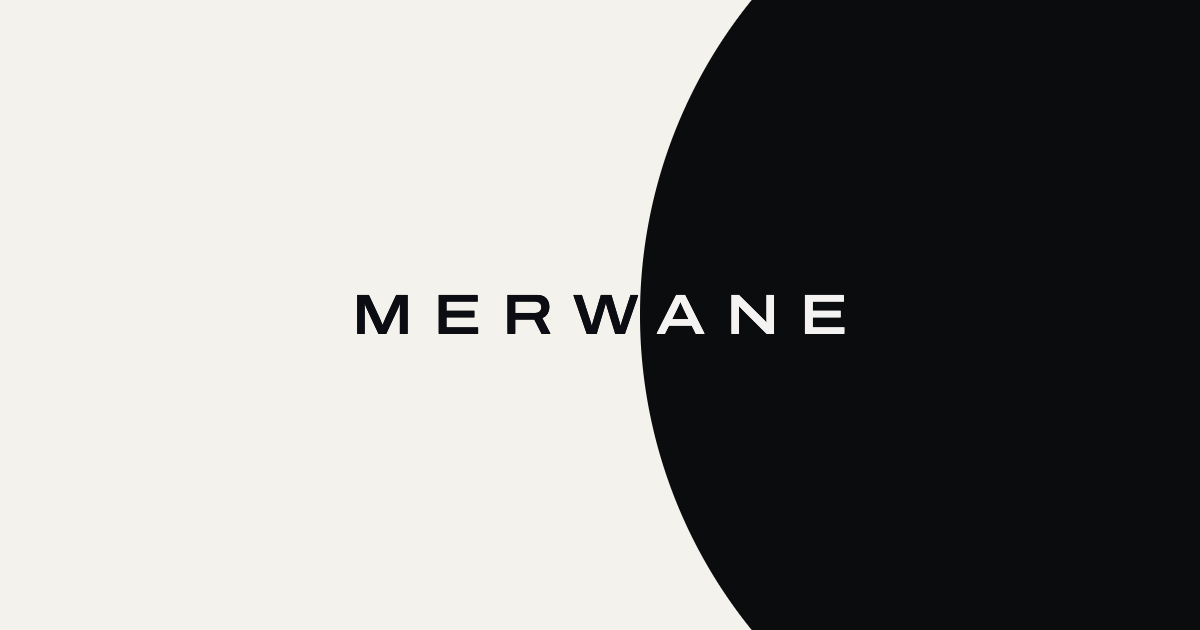
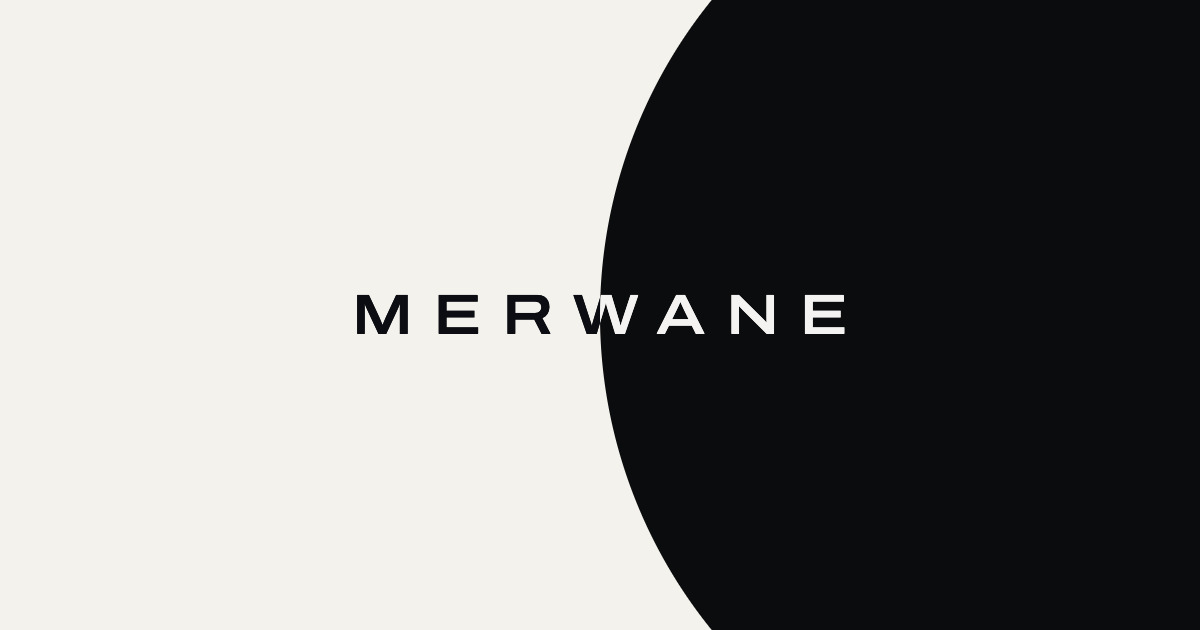
En-tête : le bord du disque passe au milieu du nom, comme sur la carte

Changed region(s): [[0.4933, 0.0, 0.6475, 1.0]]

diff --git a/index.html b/index.html
@@ -41,7 +41,7 @@ body::after { content: ""; position: fixed; inset: 0; z-index: 5; pointer-events
 .tete { --lueur: rgba(255, 222, 180, .2); --sillon: rgba(255, 255, 255, .04); --reflet: rgba(255, 220, 175, .15); --halo: rgba(11, 12, 14, .24); }
 @media (prefers-color-scheme: dark) { .tete { --lueur: #fff; --sillon: rgba(11, 12, 14, .05); --reflet: rgba(110, 80, 30, .16); --halo: rgba(244, 242, 236, .16); } }
 /* Le disque a du volume : une lueur qui suit le pointeur, des sillons à peine visibles, un reflet chaud qui tourne lentement. */
-.lune { position: absolute; left: 53vw; top: 50%; width: 84vw; aspect-ratio: 1; overflow: hidden; border-radius: 50%; background: radial-gradient(circle at var(--sx, 26%) var(--sy, 30%), var(--lueur), transparent 46%), var(--encre); box-shadow: 0 0 140px var(--halo); translate: 0 -50%; animation: lever 1.5s cubic-bezier(.16, 1, .3, 1) both; }
+.lune { position: absolute; left: 50vw; top: 50%; width: 84vw; aspect-ratio: 1; overflow: hidden; border-radius: 50%; background: radial-gradient(circle at var(--sx, 26%) var(--sy, 30%), var(--lueur), transparent 46%), var(--encre); box-shadow: 0 0 140px var(--halo); translate: 0 -50%; animation: lever 1.5s cubic-bezier(.16, 1, .3, 1) both; }
 .lune::before, .lune::after { content: ""; position: absolute; inset: 0; border-radius: 50%; }
 .lune::before { background: repeating-radial-gradient(circle, transparent 0 6px, var(--sillon) 6px 7px); }
 .lune::after { background: conic-gradient(transparent 0 6%, var(--reflet) 13%, transparent 21% 52%, var(--reflet) 59%, transparent 67%); animation: tourne 28s linear infinite; }
